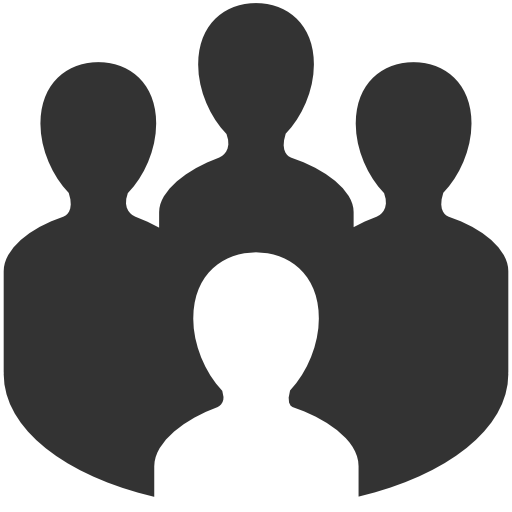
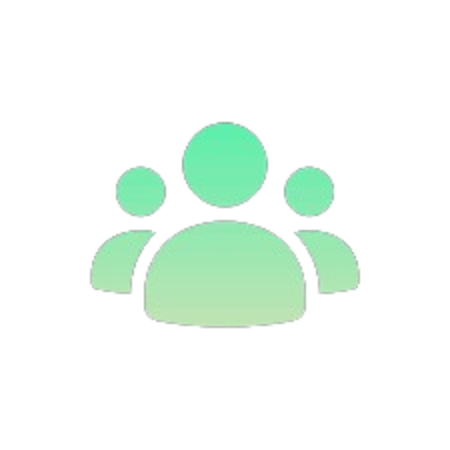
rewriting front-end

diff --git a/client/src/screens/Navigator.jsx b/client/src/screens/Navigator.jsx
@@ -28,7 +28,7 @@ export default function Navigation({ socket, isMobile, userInfo }) {
                 className="min-w-24 max-w-[100%]"
             >
                 <div className="w-auto h-auto">
-                    <img src="/Group.svg" alt="Group Icon" className="max-w-full" />
+                    <img src="/chat.png" alt="Group Icon" className="max-w-full" />
                 </div>
             </li>
 
@@ -37,7 +37,7 @@ export default function Navigation({ socket, isMobile, userInfo }) {
                 className="min-w-24 max-w-[100%]"
             >
                 <div className="w-auto h-auto">
-                    <img src="./group.png" alt="" />
+                    <img src="/nogro.png" alt="" />
                 </div>
             </li>
             <li
@@ -64,7 +64,7 @@ export default function Navigation({ socket, isMobile, userInfo }) {
                 className="min-w-24 max-w-[100%]"
             >
                 <div className="avatar w-auto h-auto">
-                    <div className="h-16 w-16 rounded-full bg-gray-400">
+                    <div className="h-16 w-16 rounded-full">
                         {userInfo.imageData ? (
                             <img
                                 src={userInfo.imageData}
@@ -72,18 +72,10 @@ export default function Navigation({ socket, isMobile, userInfo }) {
                                 className="h-full w-full object-cover"
                             />
                         ) : (
-                            <svg
-                                className="justify-self-center object-cover"
-                                xmlns="http://www.w3.org/2000/svg"
-                                viewBox="0 0 24 24"
-                                width="24"
-                                height="24"
-                            >
-                                <path
-                                    fill="gray"
-                                    d="M12 12c2.21 0 4-1.79 4-4s-1.79-4-4-4-4 1.79-4 4 1.79 4 4 4zm-7 9c0-2.67 5.33-4 7-4s7 1.33 7 4v1H5v-1z"
-                                />
-                            </svg>
+                            <img
+                                className="h-auto w-full object-cover"
+                                src="/nopro.png"
+                                alt="no profile" />
                         )}
                     </div>
                 </div>
